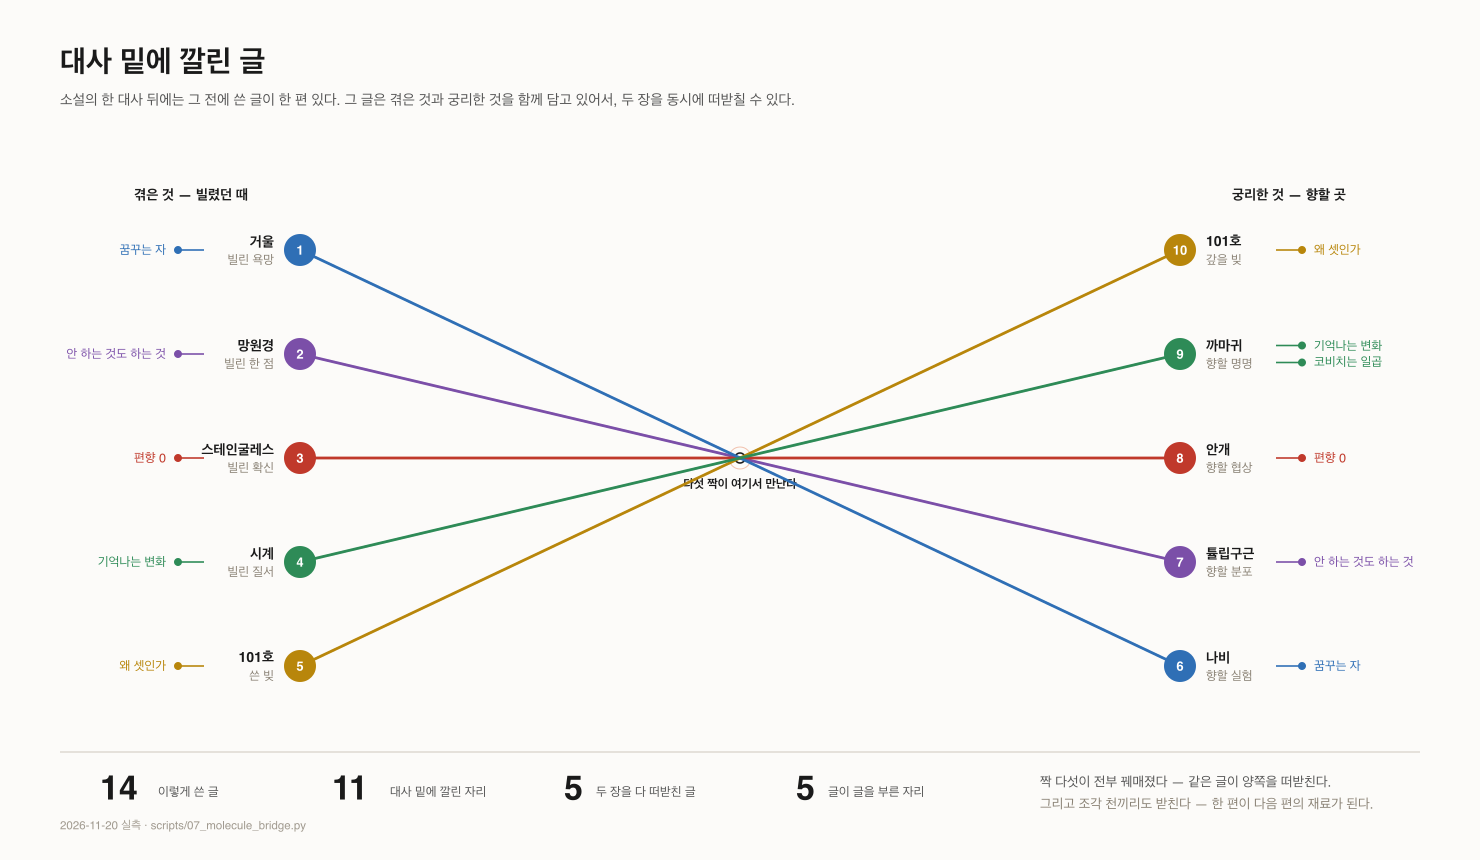
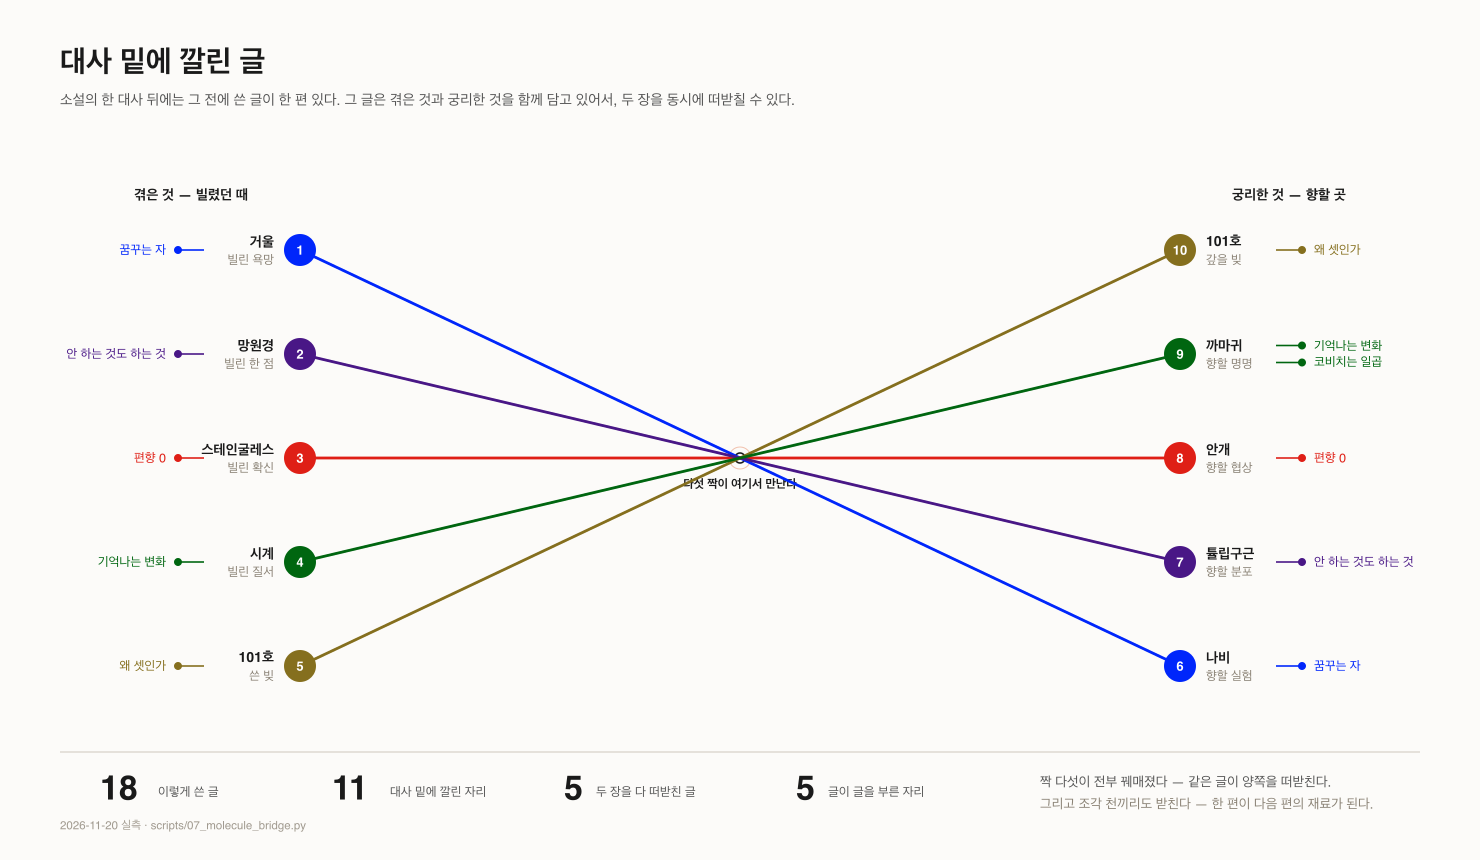
edit: 🍇 짝색을 코드북 값으로 되돌리고, 편수를 폴더가 세게 한다
색은 어휘집 「짝색 5」가 정전인데 내가 비슷한 색을 새로 지어 썼다.
크림 바탕이라 인쇄용 변형으로 갈아 끼운다 — 파랑 0026FB · 보라 491786 ·
빨강 DF1F16 · 초록 006610 · 노랑 글자용 856F1E.
내가 쓰던 노랑 B8860B 은 이 바탕에서 대비 3.15 로 AA 미달이었다(856F1E 는 4.73).

그리고 바닥 첫 숫자 「이렇게 쓴 글」이 손으로 적은 14 에 멈춰 있었다.
docs/essays 를 세게 바꿨다 — 18.

diff --git a/scripts/07_molecule_bridge.py b/scripts/07_molecule_bridge.py
@@ -15,7 +15,9 @@ import subprocess, os, pathlib
 
 INK="#1a1a1a"; SUB="#555"; CAP="#8a8275"; BG="#fcfbf9"
 # 짝색 다섯 — 색은 장이 아니라 **짝**에 붙는다. 한 짝의 두 장과 그 선이 같은 색이다.
-PAIR=["#2F6FB5","#7B4FA8","#C0392B","#2E8B57","#B8860B"]   # 1-6 2-7 3-8 4-9 5-10
+# SSOT = 어휘집 「짝색 5」. 크림 바탕이라 인쇄용 변형을 쓴다 — 빨강 DF1F16 · 노랑 글자용 856F1E.
+# 검은 바탕 정전(F82218 · FFD53A)을 그대로 쓰면 크림에서 1.37 까지 떨어져 노랑이 사라진다(실측).
+PAIR=["#0026FB","#491786","#DF1F16","#006610","#856F1E"]   # 1-6 2-7 3-8 4-9 5-10
 CAGE=PAIR[0]; NEST=PAIR[4]; MID="#6a6358"   # 머리말 글자용
 EMPTY="#ded9d0"; HOT="#e06a3b"
 W,H=1480,860; LX,RX=300,1180; Y0,DY=250,104
@@ -109,8 +111,11 @@ o.append(f'<line x1="60" y1="{BY-34}" x2="{W-60}" y2="{BY-34}" stroke="{EMPTY}" 
 # 공개 이슈 전수에서 docs/essays 18편끼리 건 링크를 세었다(2026-11-20 · 5건).
 # 「글 → 장」 말고 「글 → 글」이라 이 그림의 선과는 다른 축이다.
 CITE=5
+# 조각 천 편수도 손으로 적지 않는다 — 손으로 적었더니 14 에서 멈췄고 실제는 18 이었다.
+NE=len([f for f in _g.glob(_os.path.join(_os.path.dirname(_os.path.dirname(_os.path.abspath(__file__))),
+        "docs","essays","*.md"))])
 NL=len(LAID); NB=len(BOTH)
-for j,(n,lab) in enumerate([("14","이렇게 쓴 글"),(str(NL),"대사 밑에 깔린 자리"),
+for j,(n,lab) in enumerate([(str(NE),"이렇게 쓴 글"),(str(NL),"대사 밑에 깔린 자리"),
                             (str(NB),"두 장을 다 떠받친 글"),(str(CITE),"글이 글을 부른 자리")]):
     x=100+j*232
     o.append(t(x,BY+4,n,34,HOT if n=="0" else INK,w="bold"))
